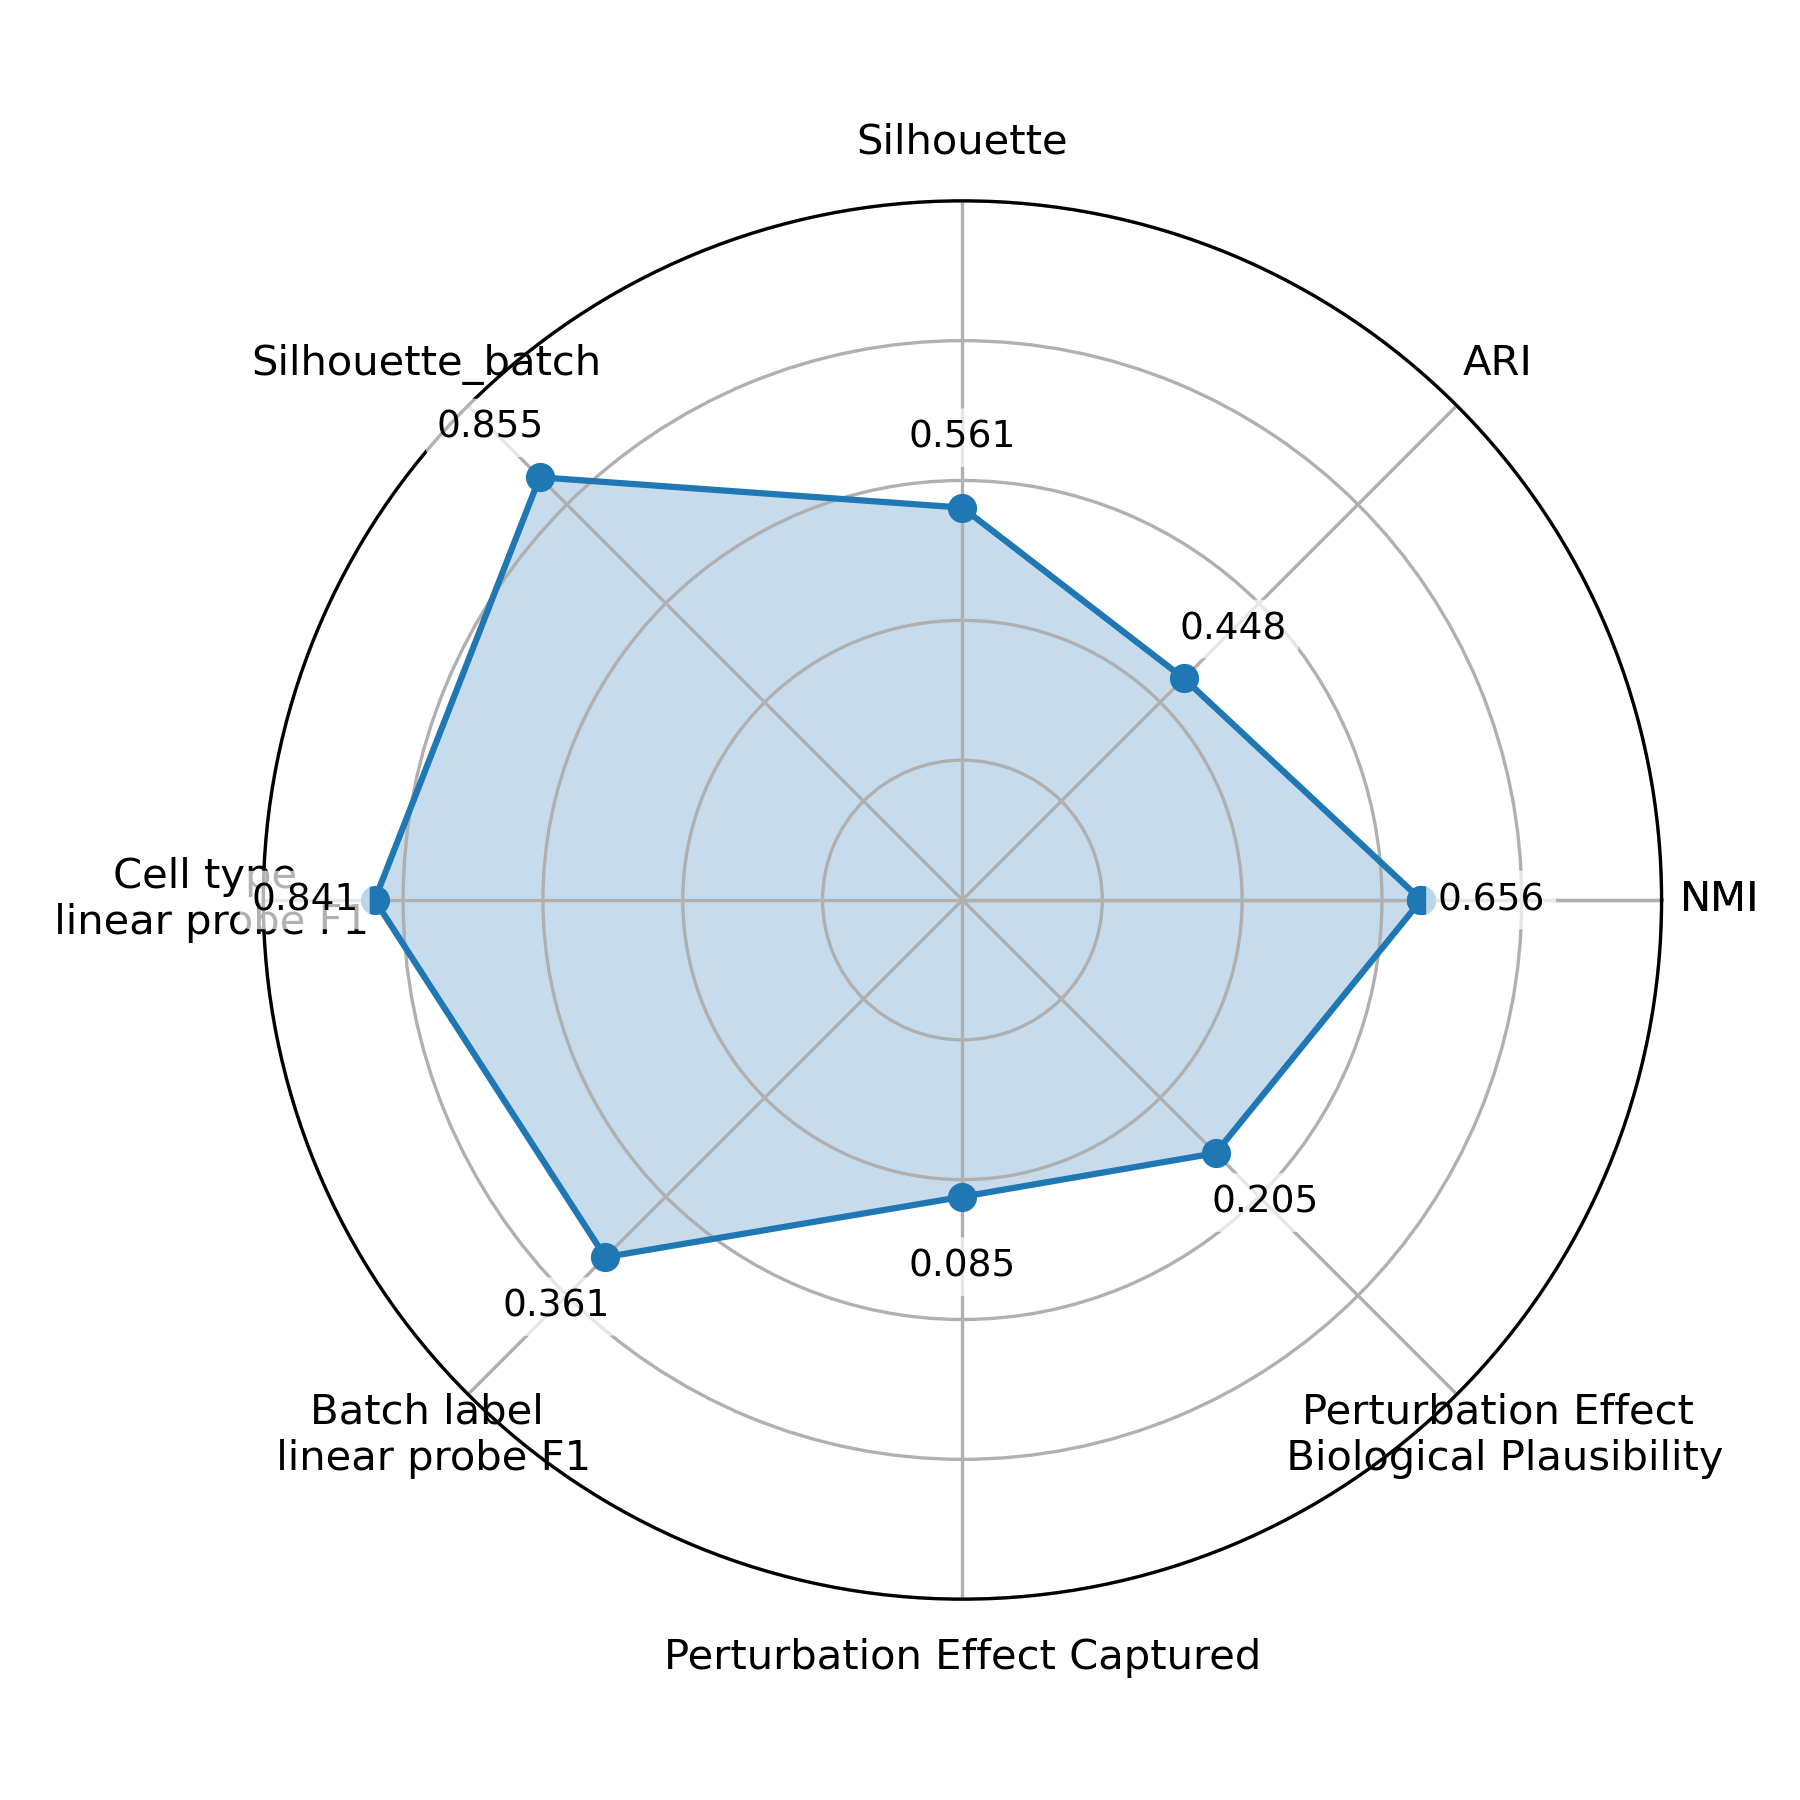
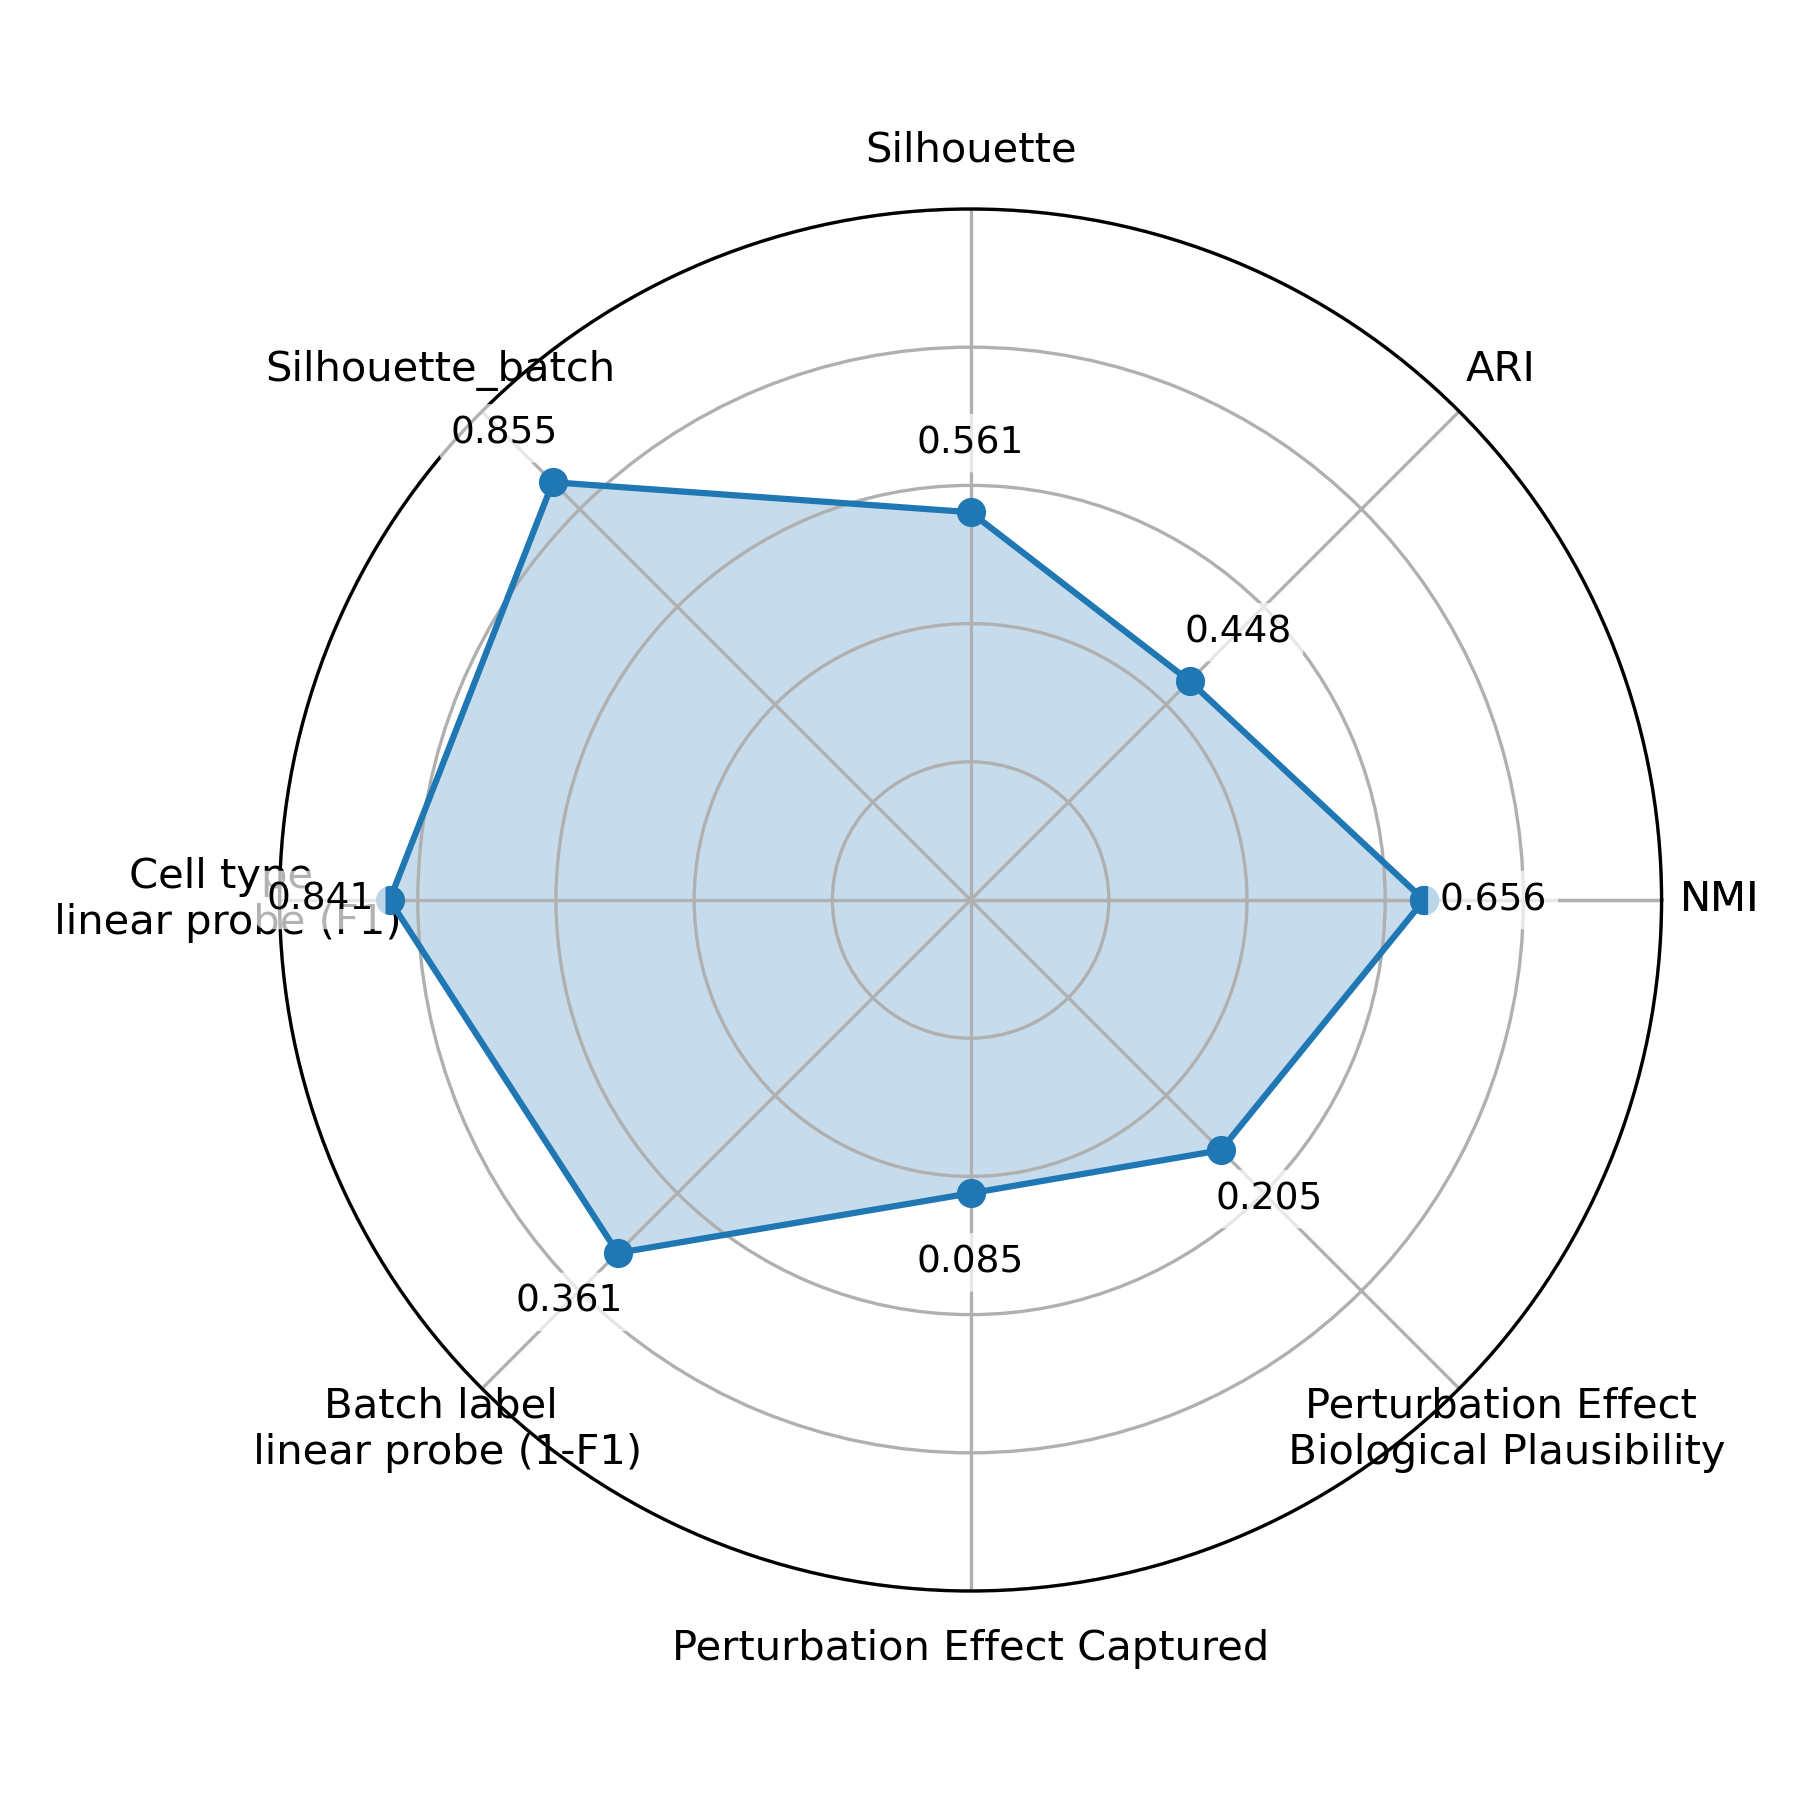
get run_chromfound_benchmark_notebook_pipeline_pca.py working with CLI args

diff --git a/benchmarks/scripts/run_chromfound_benchmark_notebook_pipeline_pca.py b/benchmarks/scripts/run_chromfound_benchmark_notebook_pipeline_pca.py
@@ -16,6 +16,7 @@ Run this in the chromfound conda environment:
 import os
 import sys
 import json
+import argparse
 import scanpy as sc
 import pandas as pd
 import numpy as np
@@ -30,6 +31,13 @@ from joblib import Parallel, delayed
 import multiprocessing as mp
 import wandb
 
+def get_args_parser():
+    parser = argparse.ArgumentParser('ChromFound Benchmarking Script')
+    parser.add_argument('--dataset_name', type=str, default='Kanemaru2023_downsampled')
+    parser.add_argument('--dataset_path', type=str, default='/scratch/wkim/project-2-team-1/ChromFound-Parallel/results-copy/chromfound/Kanemaru2023_downsampled/merge10/Kanemaru2023_downsampled_10000_cells_preprocessed_merge10.h5ad')
+    parser.add_argument('--project_root', type=str, default='/scratch/wkim/project-2-team-1/')
+    return parser
+
 # Conversion function is defined below
 
 # Import ChromFound preprocessing functions
@@ -40,9 +48,9 @@ sys.path.insert(0, str(_chromfound_path))
 from src.data.atac_preprocess import deepen_atac_data
 
 
-dataset_name = "Kanemaru2023_downsampled"
-dataset_path = "data2/Kanemaru2023/Kanemaru2023-downsampled/Kanemaru2023_downsampled_10000_cells.h5ad"
-
+# dataset_name = "Kanemaru2023_downsampled"
+# dataset_path = "data2/Kanemaru2023/Kanemaru2023-downsampled/Kanemaru2023_downsampled_10000_cells.h5ad"
+# dataset_path = "/scratch/wkim/project-2-team-1/ChromFound-Parallel/results-copy/chromfound/Kanemaru2023_downsampled/merge10/Kanemaru2023_downsampled_10000_cells_preprocessed_merge10.h5ad"
 
 
 def convert_ccre_to_genomic_coords(adata, inplace=True):
@@ -123,7 +131,7 @@ def convert_ccre_to_genomic_coords(adata, inplace=True):
     return adata
 
 
-def setup_paths(num_cell_merge=1):
+def setup_paths(args, num_cell_merge=1):
     """Set up all file paths for the benchmark.
     
     Args:
@@ -135,19 +143,21 @@ def setup_paths(num_cell_merge=1):
     # Get project root (assuming script is in benchmarks/scripts/)
 
     
-    project_root = Path(__file__).parent.parent.parent
+    # project_root = Path(__file__).parent.parent.parent
+    project_root = Path(args.project_root)
     benchmarks_dir = project_root / "benchmarks"
     
     # Create merge-specific directory and file names
     merge_suffix = f"merge{num_cell_merge}"
-    results_subdir = benchmarks_dir / "results" / "chromfound" / dataset_name / merge_suffix
+    results_subdir = benchmarks_dir / "results" / "chromfound" / args.dataset_name / merge_suffix
+    # results_subdir = Path('/scratch/wkim/project-2-team-1/ChromFound-Parallel/results-copy/chromfound/Kanemaru2023_downsampled/merge10')
     
     paths = {
         "project_root": project_root,
         "benchmarks_dir": benchmarks_dir,
         "results_dir": results_subdir,
-        "input_data": benchmarks_dir / dataset_path,
-        "preprocessed_data": results_subdir / f"{dataset_name}_preprocessed_{merge_suffix}.h5ad",
+        "input_data": benchmarks_dir / args.dataset_path,
+        "preprocessed_data": results_subdir / f"{args.dataset_name}_preprocessed_{merge_suffix}.h5ad",
         "embeddings": results_subdir / "embeddings_pca.h5ad",  # Memory-efficient PCA version
         "metrics": results_subdir / "metrics.json",
         "kmeans_labels": results_subdir / "kmeans_labels.h5ad",
@@ -470,7 +480,7 @@ def cluster_and_evaluate(paths, num_cell_merge=1):
     return metrics
 
 
-def main():
+def main(args):
     """Main benchmarking pipeline."""
     print("\n" + "=" * 80)
     print("ChromFound Benchmarking Pipeline")
@@ -529,20 +539,20 @@ def main():
     num_cell_merge = 1 if merge_choice == '1' else 10
     
     # Setup paths with merge value
-    paths = setup_paths(num_cell_merge=num_cell_merge)
+    paths = setup_paths(args, num_cell_merge=num_cell_merge)
     print(f"\nOutput directory: {paths['results_dir']}")
     print(f"Using num_cell_merge={num_cell_merge}")
     
     # Initialize Weights & Biases
     wandb.init(
         project="chromfound-benchmark",
-        name=f"chromfound-merge{num_cell_merge}-gpu{gpu_device}_{dataset_name}",
-        tags=["chromfound", f"merge{num_cell_merge}", f"gpu{gpu_device}", dataset_name],
+        name=f"chromfound-merge{num_cell_merge}-gpu{gpu_device}_{args.dataset_name}",
+        tags=["chromfound", f"merge{num_cell_merge}", f"gpu{gpu_device}", args.dataset_name],
         config={
             "model": "chromfound",
             "num_cell_merge": num_cell_merge,
             "gpu_device": gpu_device,
-            "dataset": dataset_name,
+            "dataset": args.dataset_name,
             "batch_size": 1,
             "n_pcs": 50,
         }
@@ -620,5 +630,7 @@ def main():
 
 
 if __name__ == "__main__":
-    main()
+    parser = get_args_parser()
+    args = parser.parse_args()
+    main(args)
 

diff --git a/EpiAgent/benchmarks/radar_plot.py b/EpiAgent/benchmarks/radar_plot.py
@@ -102,8 +102,8 @@ labels = [
     "ARI",
     "Silhouette",
     "Silhouette_batch",
-    "Cell type\n linear probe F1",
-    "Batch label\n linear probe F1",
+    "Cell type\n linear probe (F1)",
+    "Batch label\n linear probe (1-F1)",
     "Perturbation Effect Captured",
     "Perturbation Effect\n Biological Plausibility",
 ]
